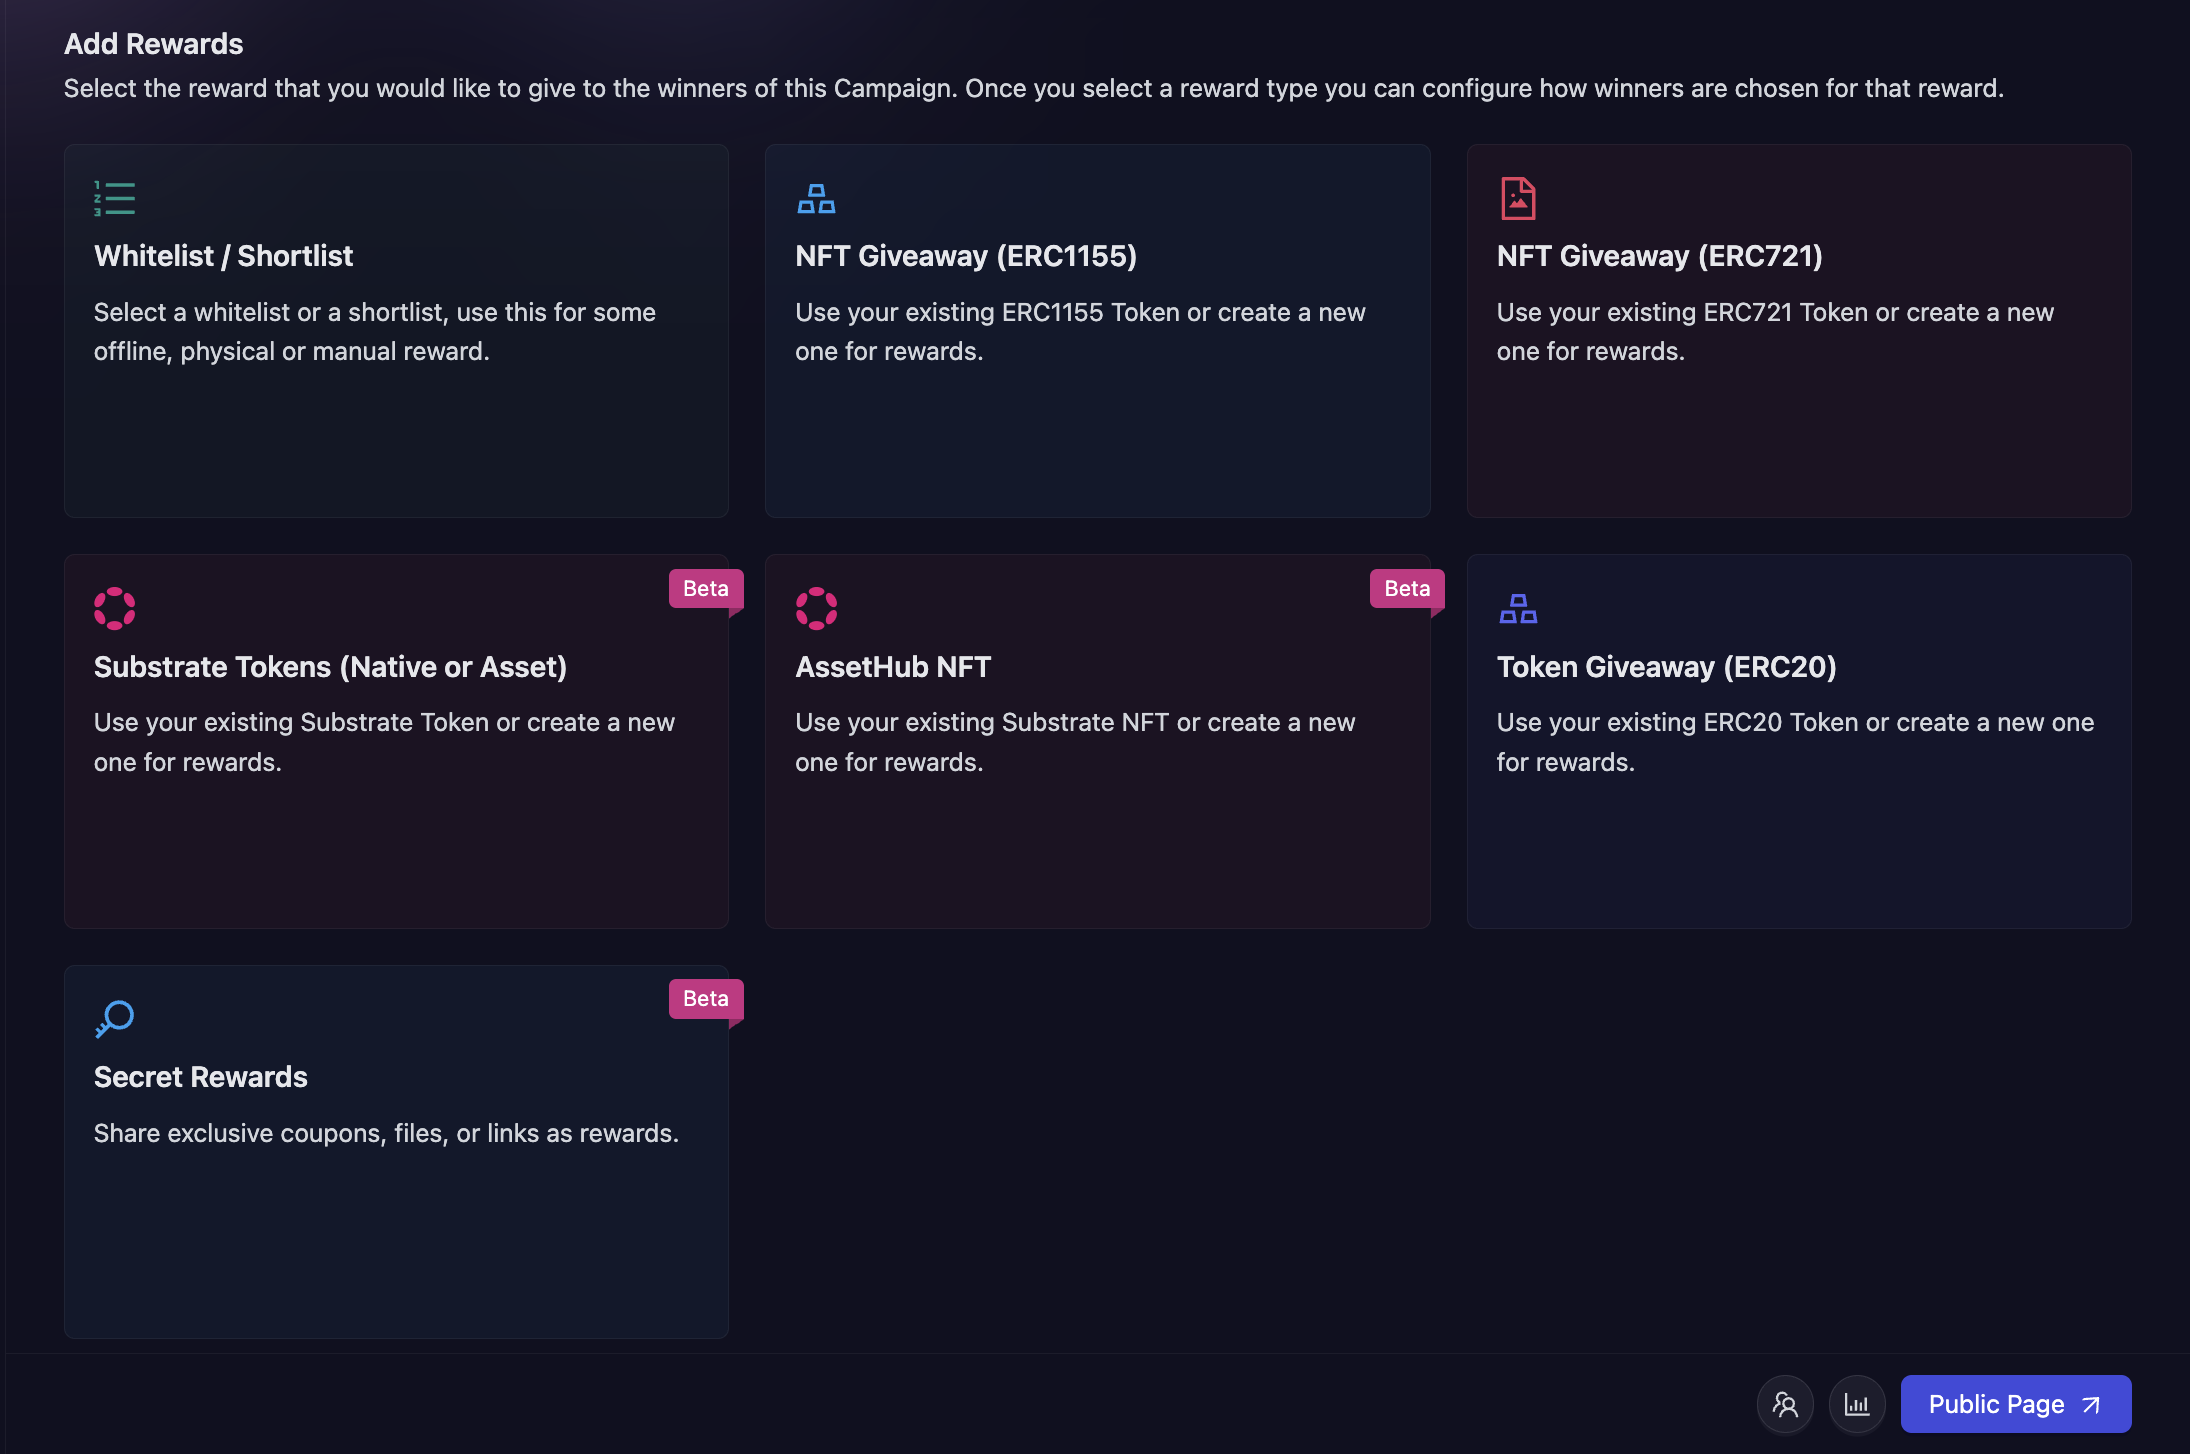
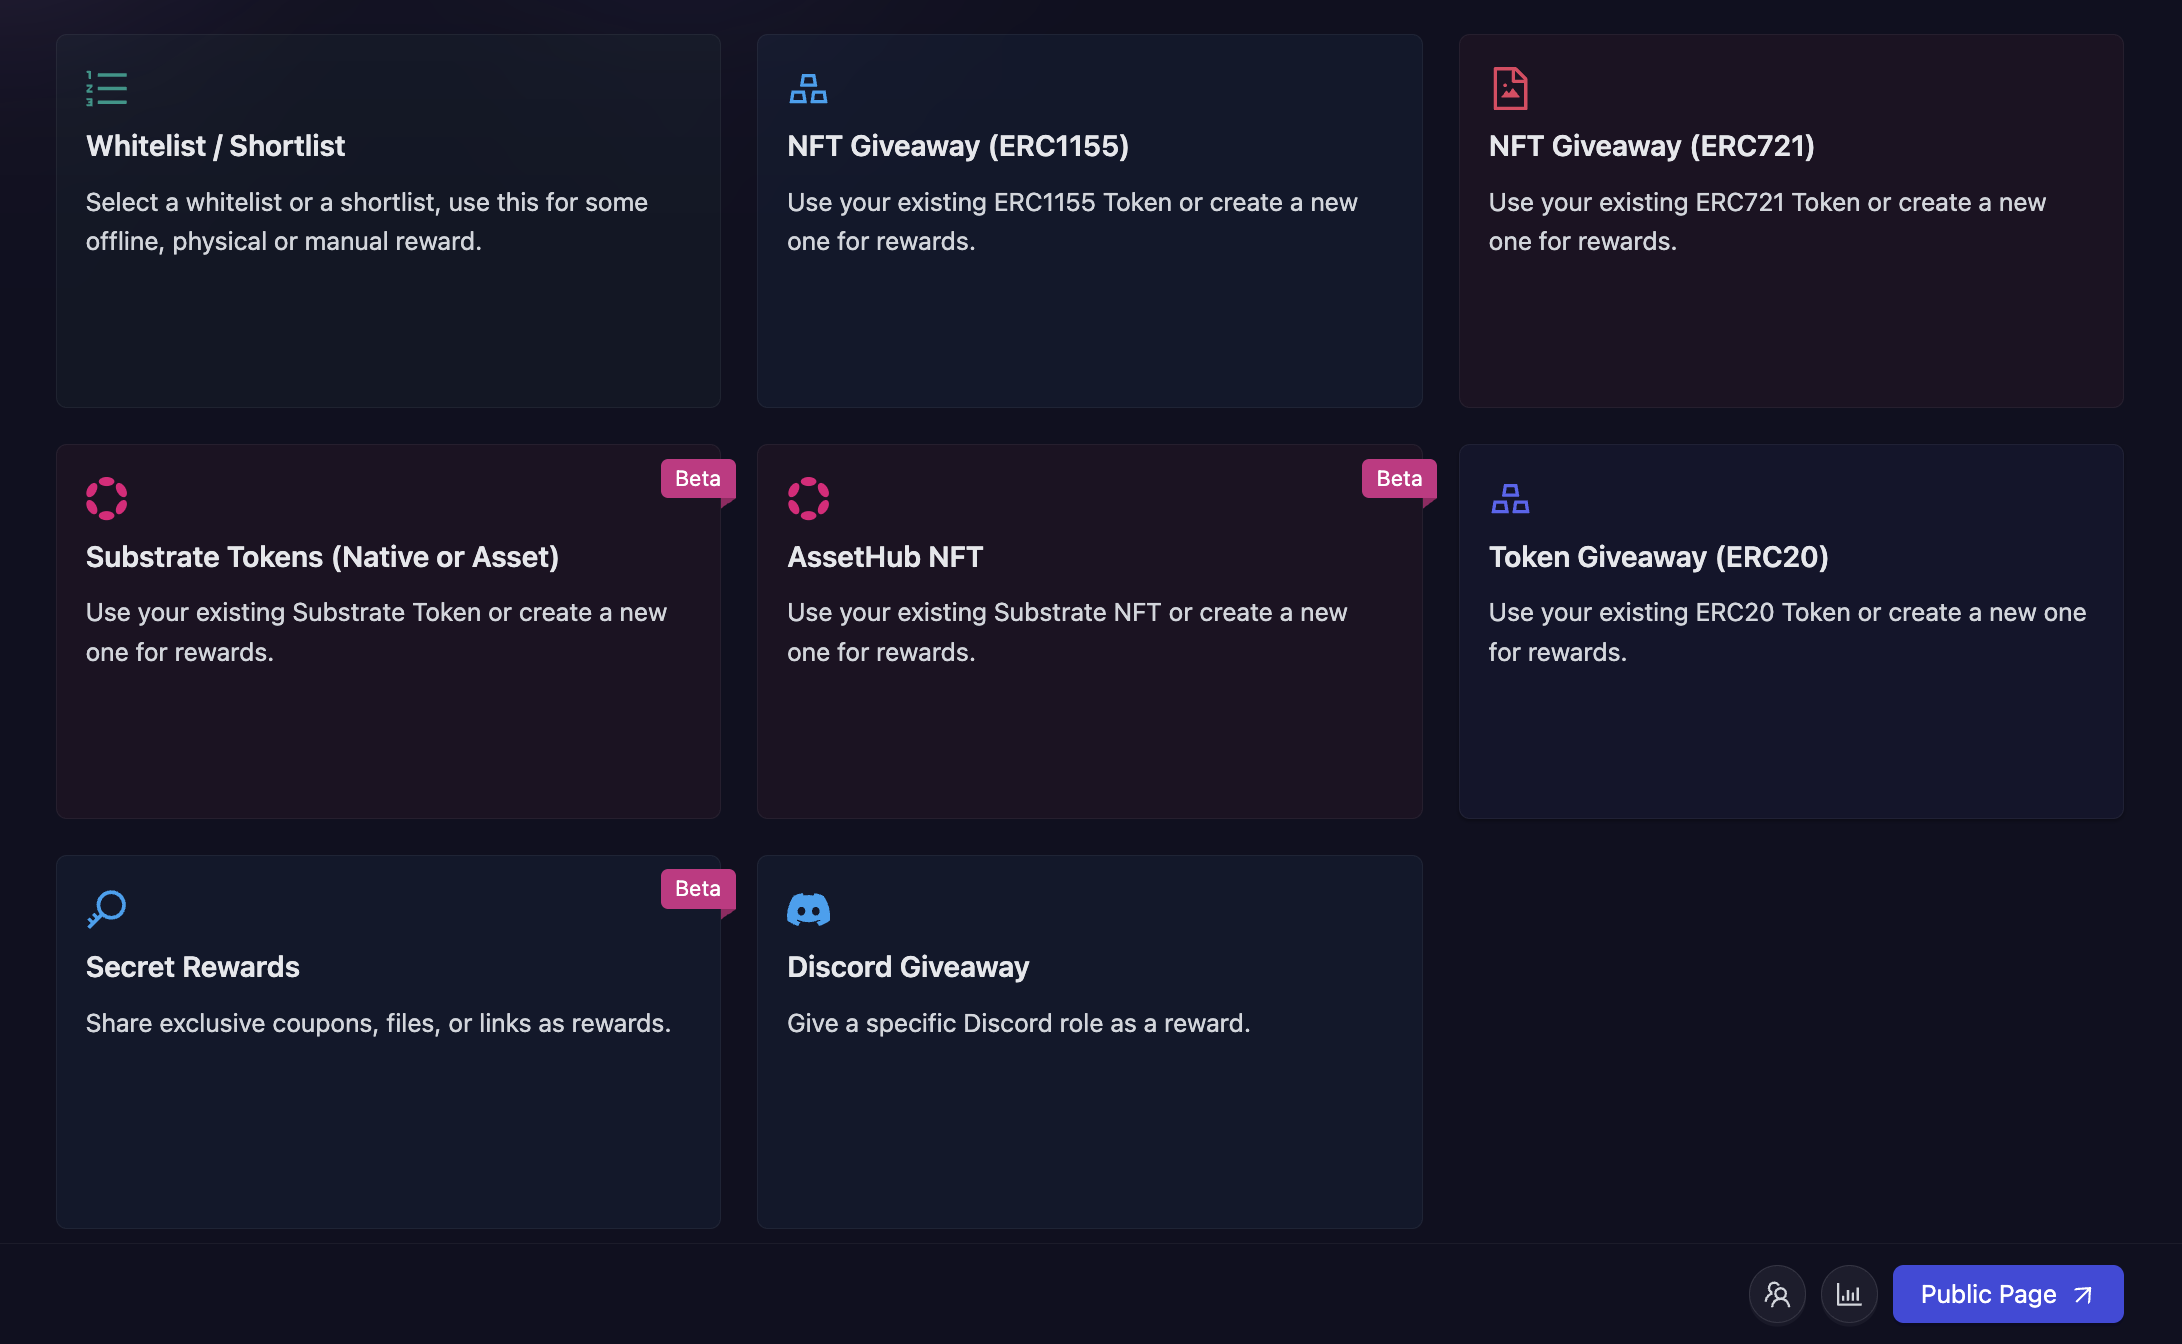
add docs for discord role task and giveaway

diff --git a/docs/campaign/quests/discord.md b/docs/campaign/quests/discord.md
@@ -1,20 +1,78 @@
 # Discord
 
-AirLyft now supports Discord integration to promote your discord server. You can create Discord based tasks to check if participants have joined your discord server or not. Please follow the steps below on how to create a Discord tasks.
+AirLyft supports comprehensive Discord integration to help you grow and engage your Discord community. You can create Discord-based tasks to verify server membership and check for specific roles. This guide covers both task types and their configuration options.
 
 - When [creating a campaign](/campaign/#creating-a-campaign), you can find the **Discord** block in the quests section
 
   ![Discord Task Main](../../images/DiscordTaskMain.png)
 
+- There are two types of Discord tasks available:
+
+  - [**Join a Discord server**](#join-a-discord-server): Verify that participants have joined your Discord server
+  - [**Check if user has Discord role(s)**](#check-if-user-has-discord-roles): Verify that participants have specific roles in your Discord server
+
+  ![Discord Task Options](../../images/DiscordTaskOptions.png)
+
+## Join a Discord server
+
+This task type verifies that participants have joined your Discord server.
+
 - Configure the basic details for your Discord task. For detailed instructions on setting up basic details, refer to the [Quest Basic Details](../quest-basic-details.md) guide.
 
 - To configure the **Task Condition & Recurrence**, refer to the [Task Condition & Recurrence](../task-condition-and-recurrence.md) page.
 
-  ![Discord Task Basics](../../images/DiscordTaskBasic.png)
+  ![Discord Task Basics](../../images/DiscordTaskJoin.png)
 
-- After entering the basic details, enter your project's discord server invite link here. Please note that if your discord invite link is correct, AirLyft will auto populate the server it belongs to. Take a look at the screenshot below.
+- Enter your project's Discord server invite link. If your Discord invite link is correct, AirLyft will automatically populate the server it belongs to.
 
-Make sure your Discord link does not expire before the end of the campaign.
+- Make sure your Discord link does not expire before the end of the campaign.
+
+### Additional Conditions
+
+Both Discord task types support additional time-based conditions to ensure participants have been members for a specific duration:
+
+- **Relative (Specify minimum account age in days)**
+
+  ![Discord Relative Condition](../../images/DiscordRelative.png)
+
+  Set a minimum number of days that users must have been a member of the Discord server. For example, setting this to 100 days means only users who joined the server at least 100 days ago can verify the task.
+
+- **Absolute (Specify a fixed date)**
+
+  ![Discord Absolute Condition](../../images/DiscordAbsolute.png)
+
+  Set a specific date by which users must have joined the Discord server. For example, setting this to February 16, 2025 means only users who joined before that date can verify the task.
+
+## Check if user has Discord role(s)
+
+This task type verifies that participants have specific roles in your Discord server. This is useful for rewarding active community members or those with special privileges.
+
+### Prerequisites
+
+Before creating a role-checking task, you must first set up a Discord integration. Follow the [Discord Integration](../../integrations/discord.md) guide to connect your Discord account.
+
+### Setting up the Role Check Task
+
+- Configure the basic details for your Discord role task. For detailed instructions on setting up basic details, refer to the [Quest Basic Details](../quest-basic-details.md) guide.
+
+- To configure the **Task Condition & Recurrence**, refer to the [Task Condition & Recurrence](../task-condition-and-recurrence.md) page.
+
+  ![Discord Role Task](../../images/DiscordTaskRole.png)
+
+- **Select Connected Account:** Choose your Discord account from the Connected Account dropdown. This account must be connected via the Discord integration.
+
+- **Select Discord Server:** A list of all servers where you are the owner will be displayed. Select the server you want to use for role verification.
+
+- **Add AirLyft Bot to Server:** If the AirLyft bot is not already added to your selected server, a prompt will appear with instructions. Follow the on-screen steps to add the bot to your server. This is required for AirLyft to verify user roles.
+
+- **Select Roles:** After the bot is added, a list of all roles in your server will be displayed. Select which role(s) you want to check for.
+
+- **Role Condition (for multiple roles):** If you select multiple roles, you can specify whether users need:
+
+  - **ALL** selected roles to verify the task
+  - **ANY** of the selected roles to verify the task
+
+- The [Additional Conditions](#additional-conditions) section works the same way for role-checking tasks, allowing you to verify when users joined the server.
 
 :::tip For instant help
 

diff --git a/docs/campaign/rewards/reward-types/discord.md b/docs/campaign/rewards/reward-types/discord.md
@@ -1,0 +1,69 @@
+# Discord Role Giveaway
+
+## What is a Discord Role Giveaway?
+
+Discord Role Giveaway allows you to automatically assign Discord roles to campaign winners. This is a powerful way to reward your community members with exclusive access, special privileges, or status within your Discord server based on their campaign participation.
+
+## When to use Discord Role Giveaway?
+
+Use Discord Role Giveaway when you want to:
+
+- Grant exclusive roles to top performers in your campaign
+- Reward active community members with special status
+- Provide access to private channels or features based on campaign completion
+- Create tiered membership systems based on participation
+- Recognize and incentivize community engagement
+
+## How to create a Discord Role Giveaway?
+
+1. In the campaign creation process, navigate to the 'Rewards' section and select "Discord Giveaway" as your reward type.
+
+   ![Creating a Discord Role Giveaway](../images/rewardsmain.png)
+
+2. Then, fill in the details about the reward. You need to fill the following details:
+
+   - **Reward Summary:** Enter a descriptive title for your giveaway that clearly explains what role is being awarded.
+
+   - **Connected Discord Account:** Select your Discord account from the dropdown. You must first connect your Discord account through the [Discord Integration](../../../integrations/discord.md) before you can create this giveaway type.
+
+   - **Discord Server (Guild):** Choose the Discord server where the role will be assigned. Only servers where the connected account is the owner will be displayed.
+
+   - **Add Bot to Server:** If AirLyft's bot is not already added to your selected server, you will see on-screen instructions. Follow these instructions to add the bot to your server. This is required for AirLyft to assign roles to winners.
+
+   - **Role:** Select the role that you want to award to winners. A list of all available roles in your selected server will be displayed.
+
+   - **Winner Selection Strategy:** Choose how you want winners to be selected. Click [here](../winner-selection) to learn more about the types of winner selection strategies.
+     Note: Based on your chosen winner selection strategy, you may be presented with additional options. Configure these as needed.
+
+   - **Image (Optional):** You can optionally upload a custom giveaway icon to make your reward more visually appealing.
+
+   ![Discord Role Giveaway Creation](../images/discordrewardcreation.png)
+
+3. Click **Create Giveaway** button to finalize the Discord Role Giveaway setup.
+
+## Winner Selection Strategies
+
+Discord Role Giveaways support various winner selection strategies:
+
+1. **[FCFS](../winner-selection/fcfs):** Set conditions based on fuel secured or tasks completed. Users can claim roles instantly upon meeting conditions.
+2. **[Task FCFS](../winner-selection/task-fcfs):** Users instantly receive roles upon successful completion of designated tasks.
+3. **[Manual selection at the end of the campaign](../winner-selection/manual):** Manually select winners from participants after the campaign ends.
+4. **[Ranked Random Raffle at the end of the campaign](../winner-selection/ranked-random):** Automatically select winners randomly, prioritizing those with higher points.
+5. **[Ranked Random Raffle at specific time](../winner-selection/ranked-random-specific.md):** Same as above, but distribute rewards at a specific time.
+6. **[Pure Random Raffle at specific time](../winner-selection/pure-random-specific.md):** Completely random winner selection at a specific time, regardless of points.
+
+## Important Notes
+
+- The connected Discord account must be the owner of the server where roles will be assigned
+- AirLyft's bot must be added to the server and have appropriate permissions to manage roles
+- The bot's role in your Discord server must be higher in the hierarchy than the role you're assigning
+- Winners will automatically receive the role once they are selected according to your winner selection strategy
+
+:::tip For instant help
+
+1. Create a support ticket on our Discord: https://discord.gg/bx6ZCTwbYw
+2. Join [this Telegram group](https://t.me/kyteone): https://t.me/kyteone
+
+**_The AirLyft Team is there to help you. AirLyft is a platform to run marketing events, campaigns, quests and automatically distribute NFTs or Tokens as rewards._**
+
+:::
